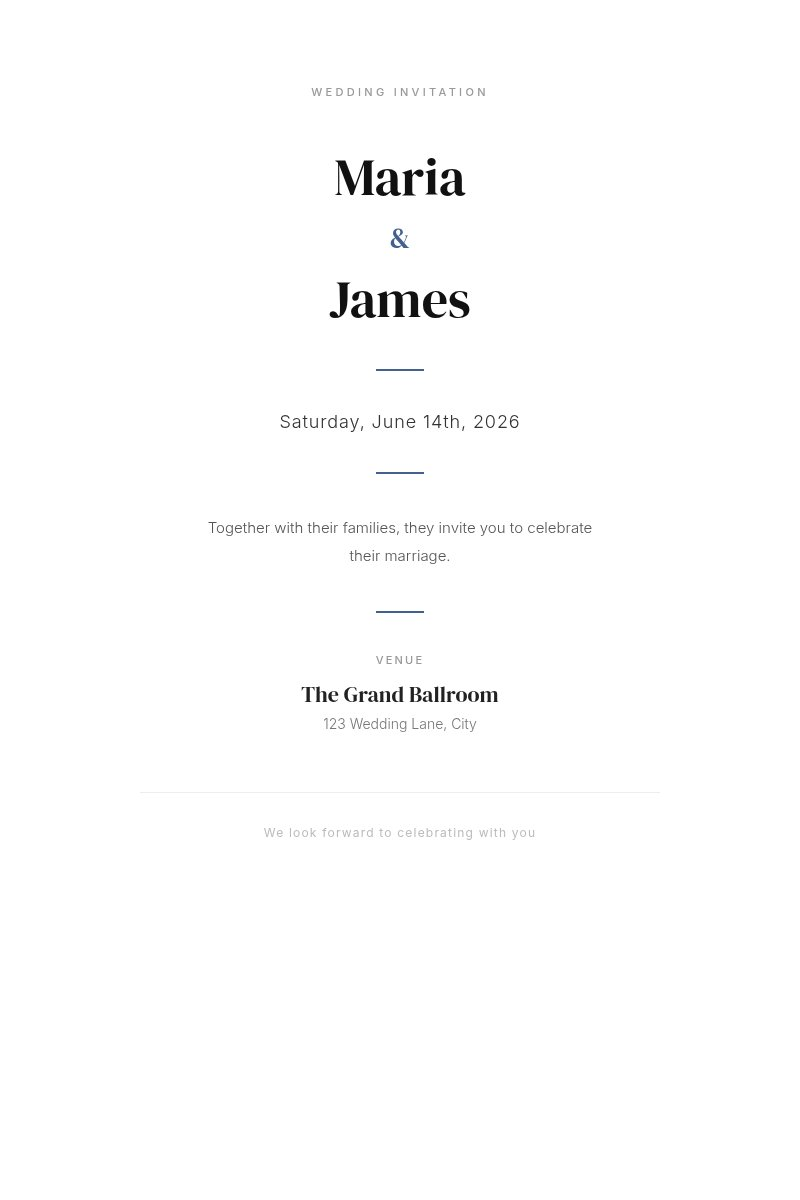
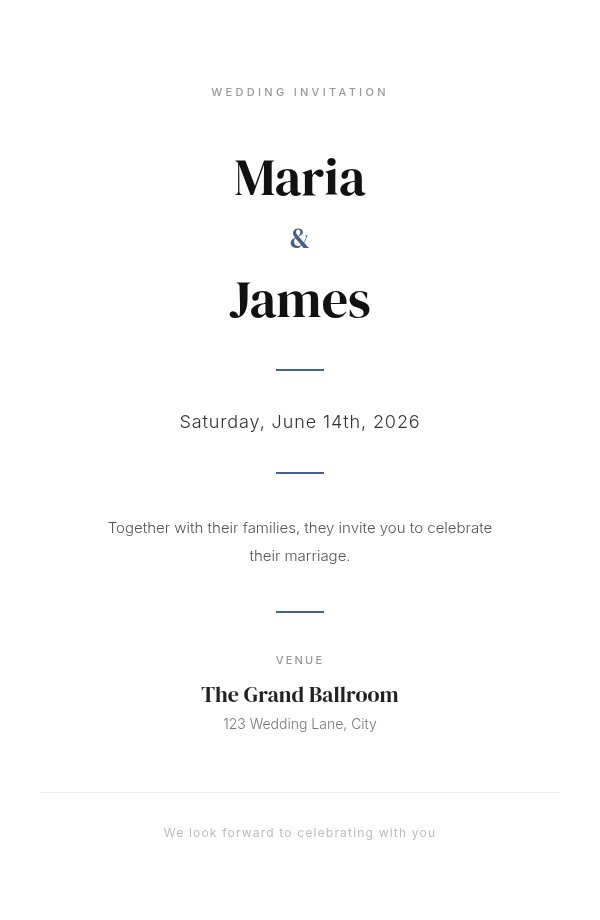
refactor(templates): frame previews to invitation card directly
Screenshots were captured at a fixed 800x1200 viewport, leaving cards
floating in surrounding background colour, and the listing thumbnail
was 4:3 with object-cover, which cropped the top and bottom of the
portrait card images. Capture the .invitation/.card element via
puppeteer's element screenshot so each preview is framed exactly to
the card, then switch the listing to aspect-[3/4] with object-contain
so portrait cards display fully.

Regenerated previews for minimalist, modern-minimal, rustic-autumn.

diff --git a/pages/templates/index.vue b/pages/templates/index.vue
@@ -91,12 +91,12 @@ function onImageError(templateId: number) {
           class="bg-ivory-100 border border-charcoal-200 rounded-2xl overflow-hidden hover:border-champagne-400 hover:shadow-md transition-all duration-200"
         >
           <!-- Preview -->
-          <div class="aspect-[4/3] relative overflow-hidden">
+          <div class="aspect-[3/4] relative overflow-hidden bg-ivory-200">
             <img
               v-if="template.previewImageUrl && !brokenImages.has(template.id)"
               :src="template.previewImageUrl"
               :alt="template.name"
-              class="w-full h-full object-cover"
+              class="w-full h-full object-contain"
               @error="onImageError(template.id)"
             />
             <div

diff --git a/server/db/templates-screenshots.ts b/server/db/templates-screenshots.ts
@@ -46,8 +46,11 @@ async function main() {
       await page.setViewport(VIEWPORT)
       await page.setContent(rendered, { waitUntil: 'networkidle0' })
       await page.evaluate(() => document.fonts.ready)
+      const card = await page.$('.invitation, .card')
       const outPath = join(IMAGES_DIR, `${slug}.jpg`)
-      const buffer = await page.screenshot({ type: 'jpeg', quality: 85, fullPage: false })
+      const buffer = card
+        ? await card.screenshot({ type: 'jpeg', quality: 85 })
+        : await page.screenshot({ type: 'jpeg', quality: 85, fullPage: false })
       writeFileSync(outPath, buffer)
       await page.close()
       console.log(`[screenshots] wrote ${outPath}`)
